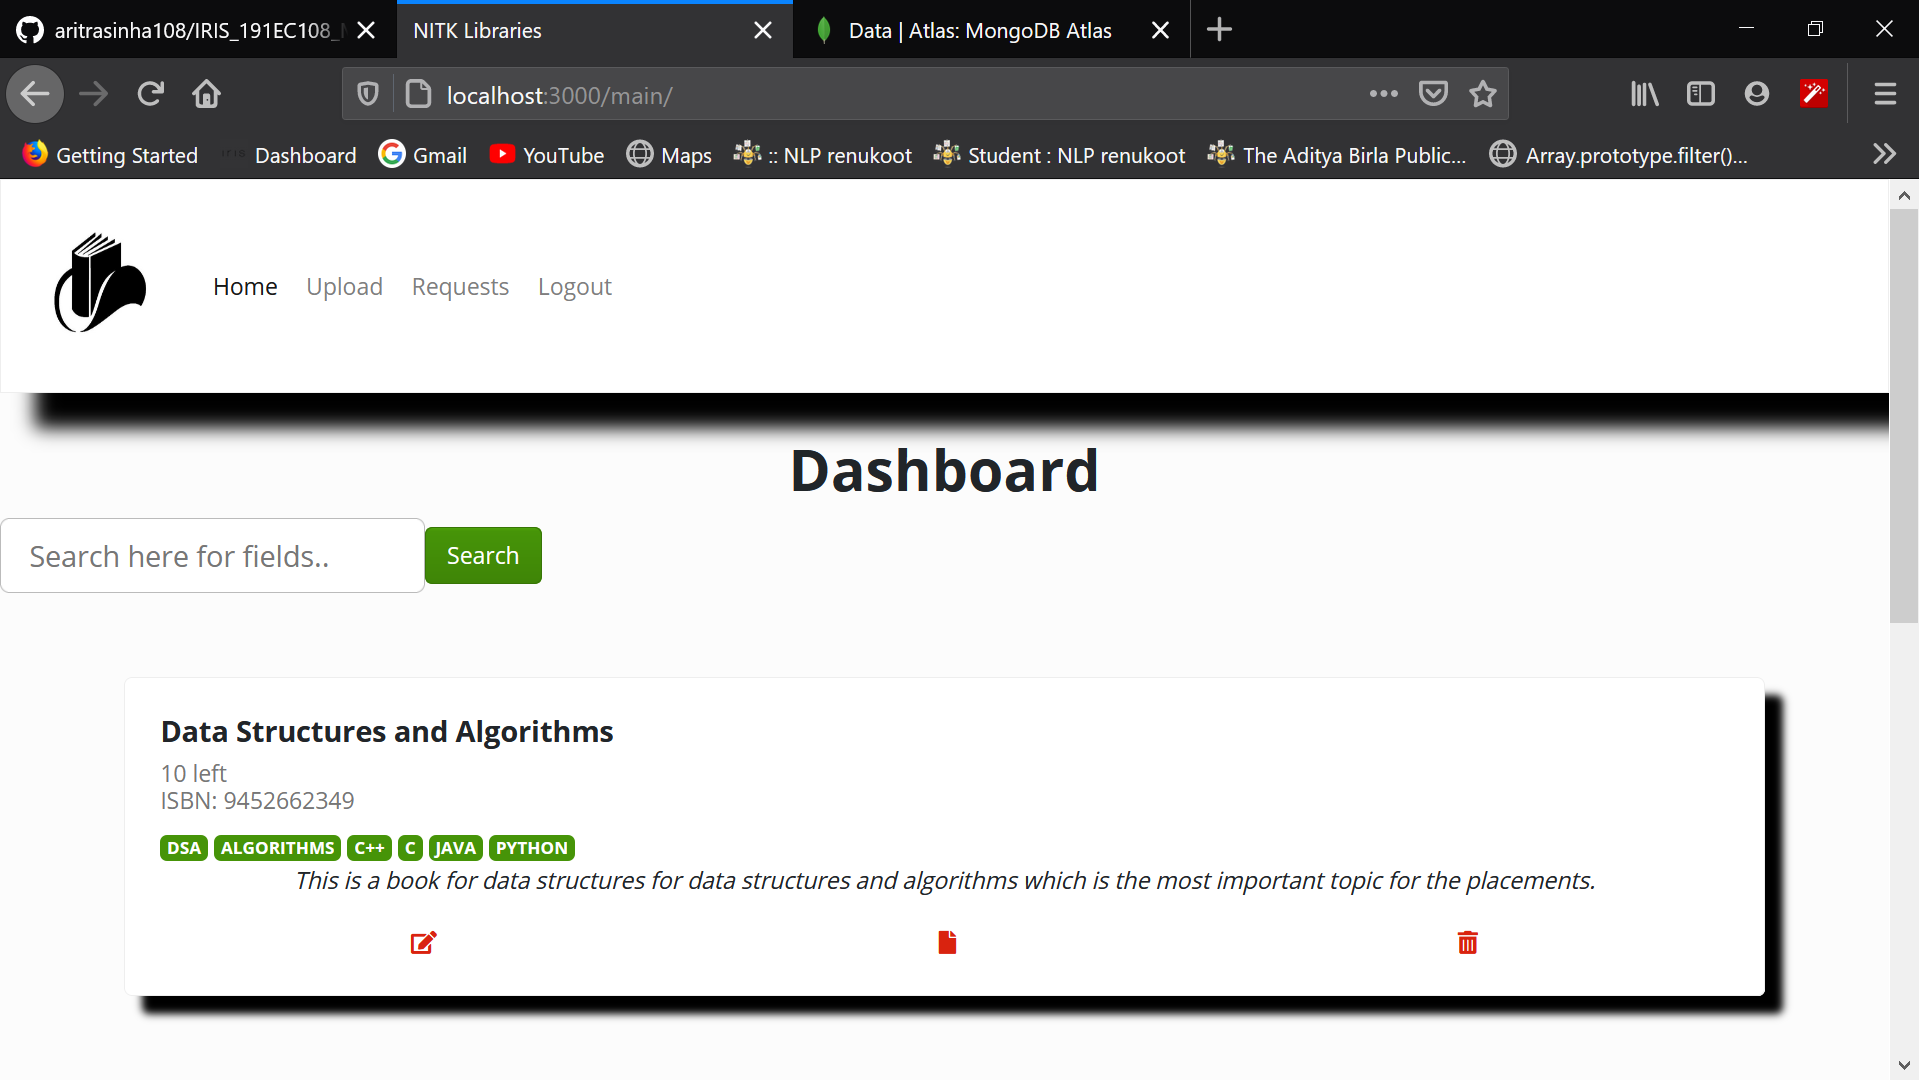
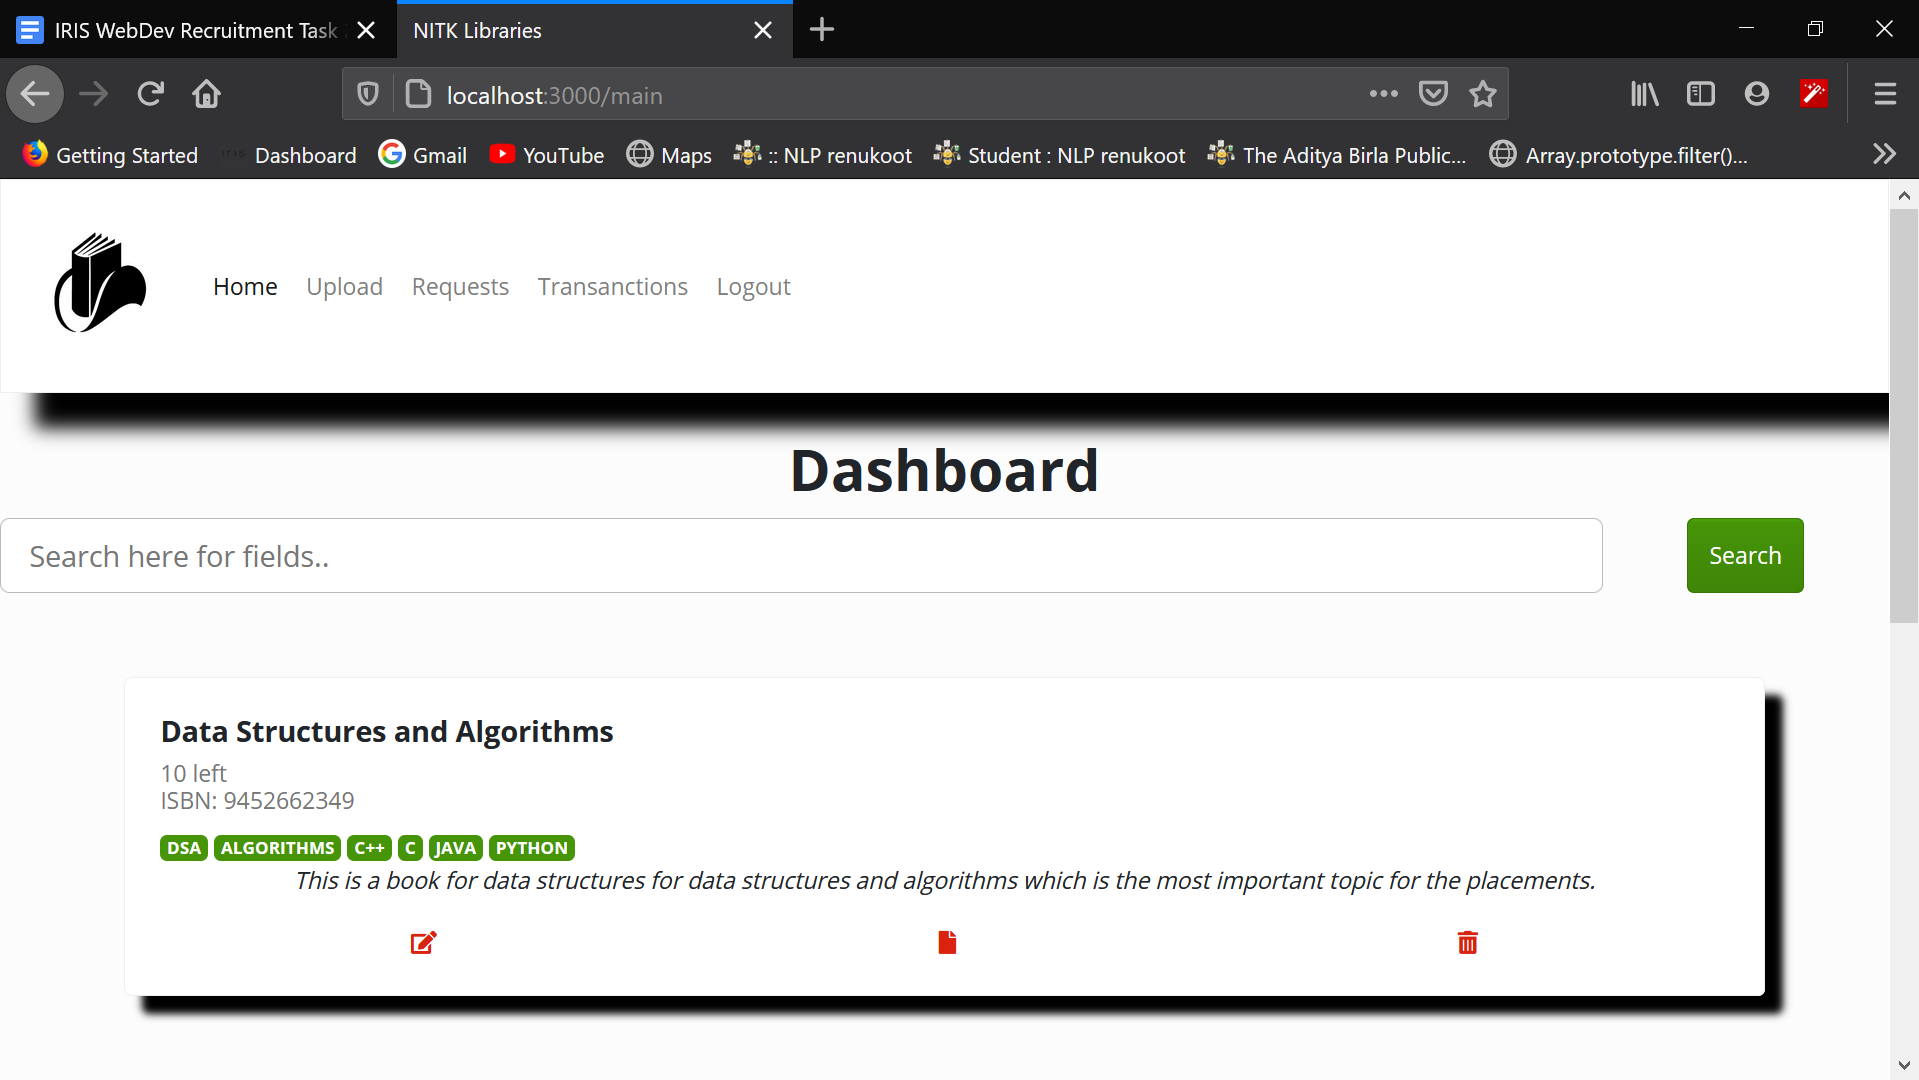
Add transanction list for admin and issue and return date for request

diff --git a/routes/main.js b/routes/main.js
@@ -100,6 +100,9 @@ router.get('/app/:id', async (req, res) => {
     if (book.qty >= 1) {
         book.qty = book.qty - 1;
         request.status = "Approved";
+
+        request.issueAt = new Date();
+        request.admin = req.user.email;
         await book.save();
         await request.save();
         req.flash('sucess_msg', "Request approved")
@@ -127,7 +130,8 @@ router.get('/dec/:id', async (req, res) => {
 
 
     request.status = "Declined";
-
+    request.issueAt = new Date();
+    request.admin = req.user.email;
     await request.save();
     req.flash('sucess_msg', "Request declines")
     res.redirect('/main/requests')
@@ -160,7 +164,12 @@ router.post('/search', async (req, res) => {
 
 });
 
+router.get('/trans', async (req, res) => {
+    let reqs = await Requests.find({ admin: req.user.email }).sort({ createdAt: 'desc' });
 
+
+    res.render('main/transanctions', { user: req.user, reqs: reqs });
+});
 
 
 

diff --git a/models/request.js b/models/request.js
@@ -23,7 +23,20 @@ const reqSchema = new mongoose.Schema({
     status: {
         type: String,
         default: 'Pending'
-    }
+    },
+    issueAt: {
+        type: Date,
+        required: false
+    },
+    admin: {
+        type: String,
+        required: false
+    },
+    returnAt: {
+        type: Date,
+        required: false
+    },
+
 
 
 });

diff --git a/routes/student.js b/routes/student.js
@@ -116,6 +116,7 @@ router.get('/return/:id', async (req, res) => {
     console.log(request);
     if (request) {
         request.status = "Returned";
+        request.returnAt = new Date();
         await request.save();
         await book.save();
         req.flash('succes_msg', "Book returned succesfully");
